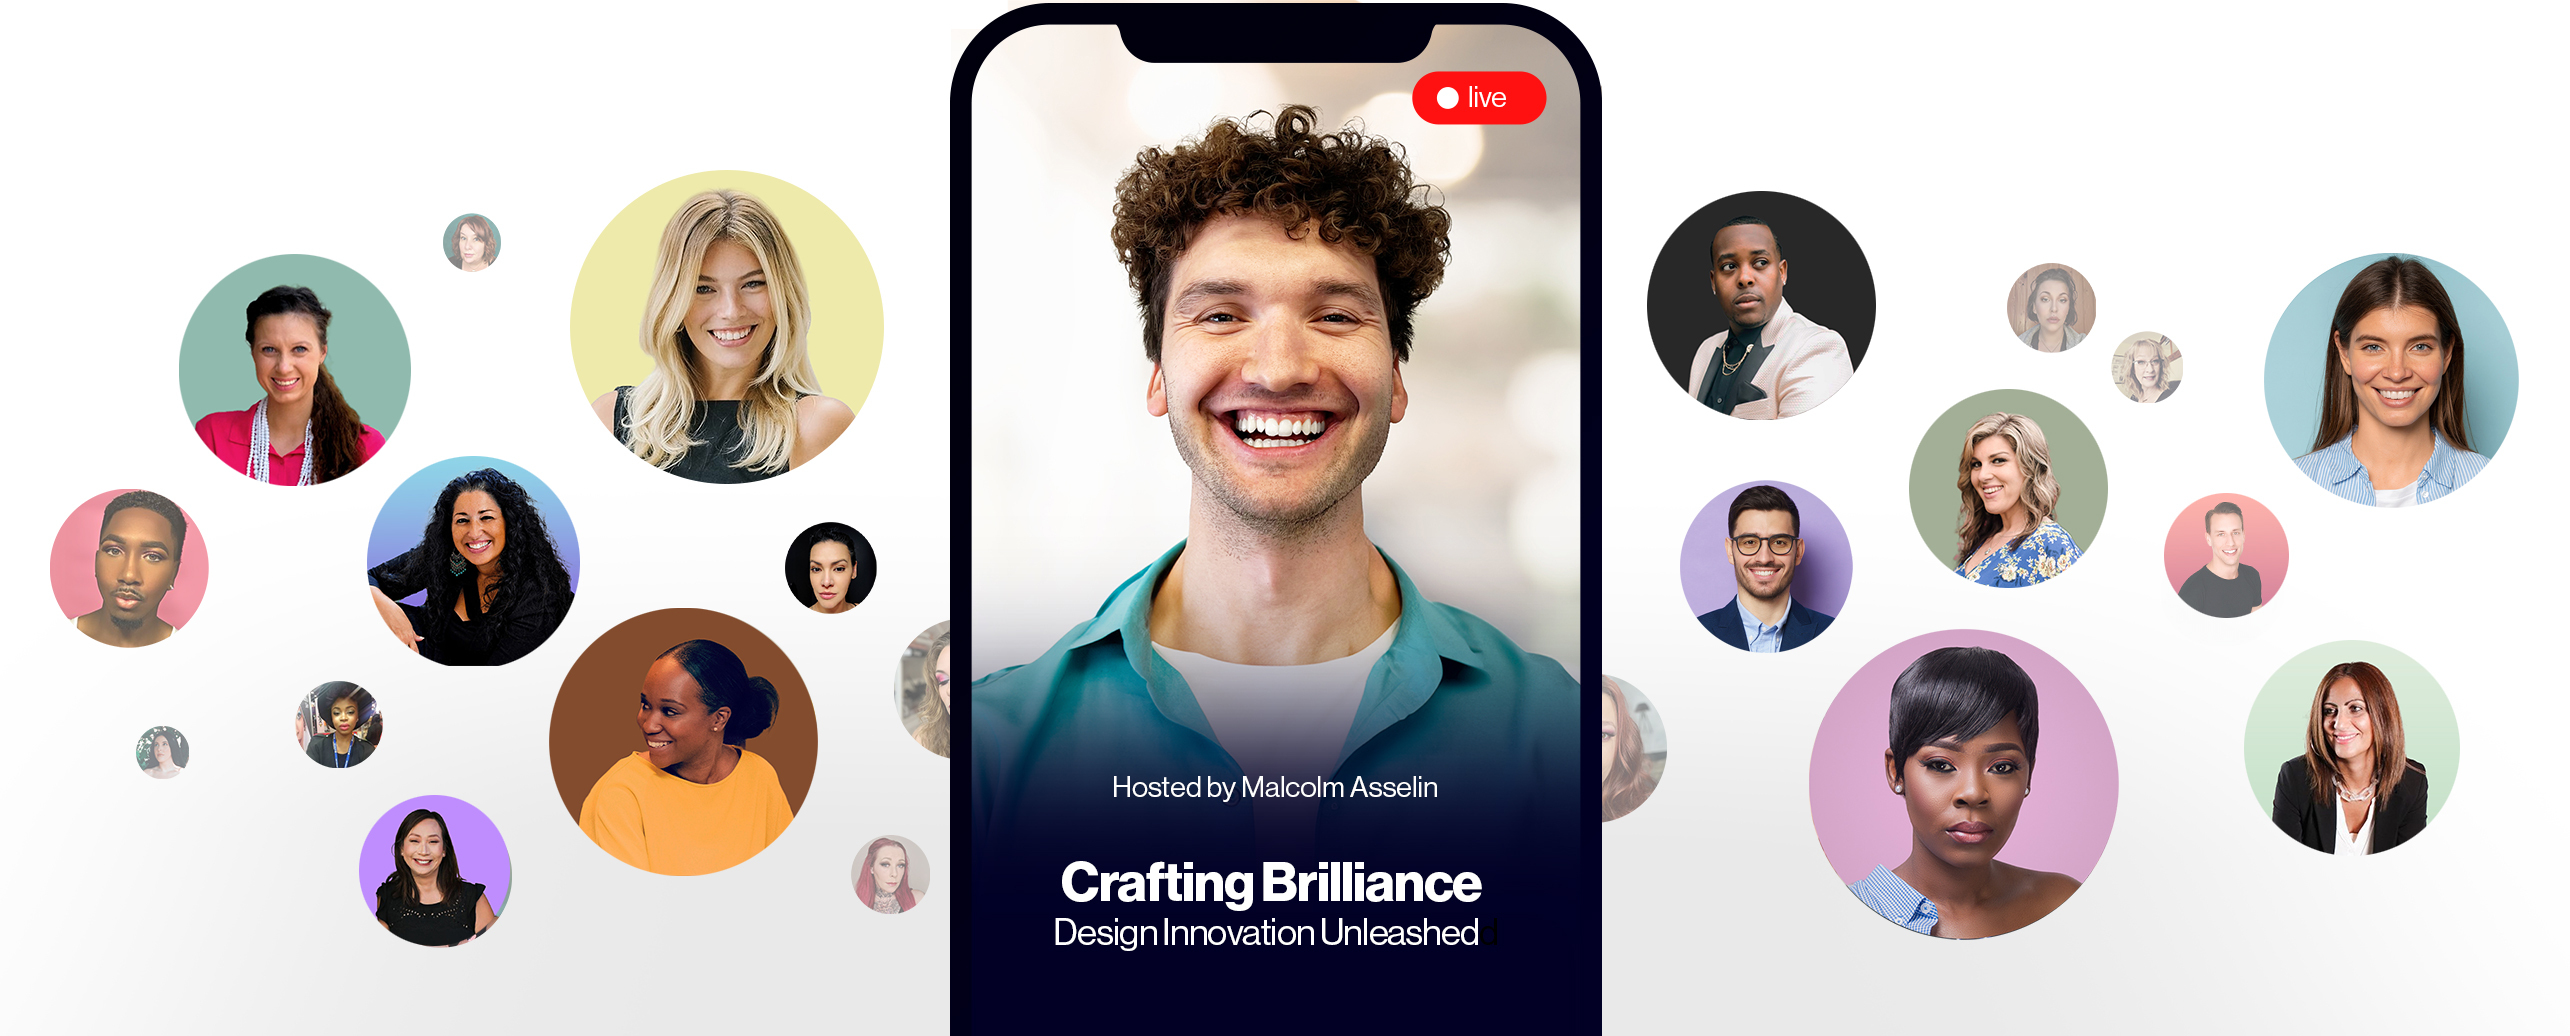
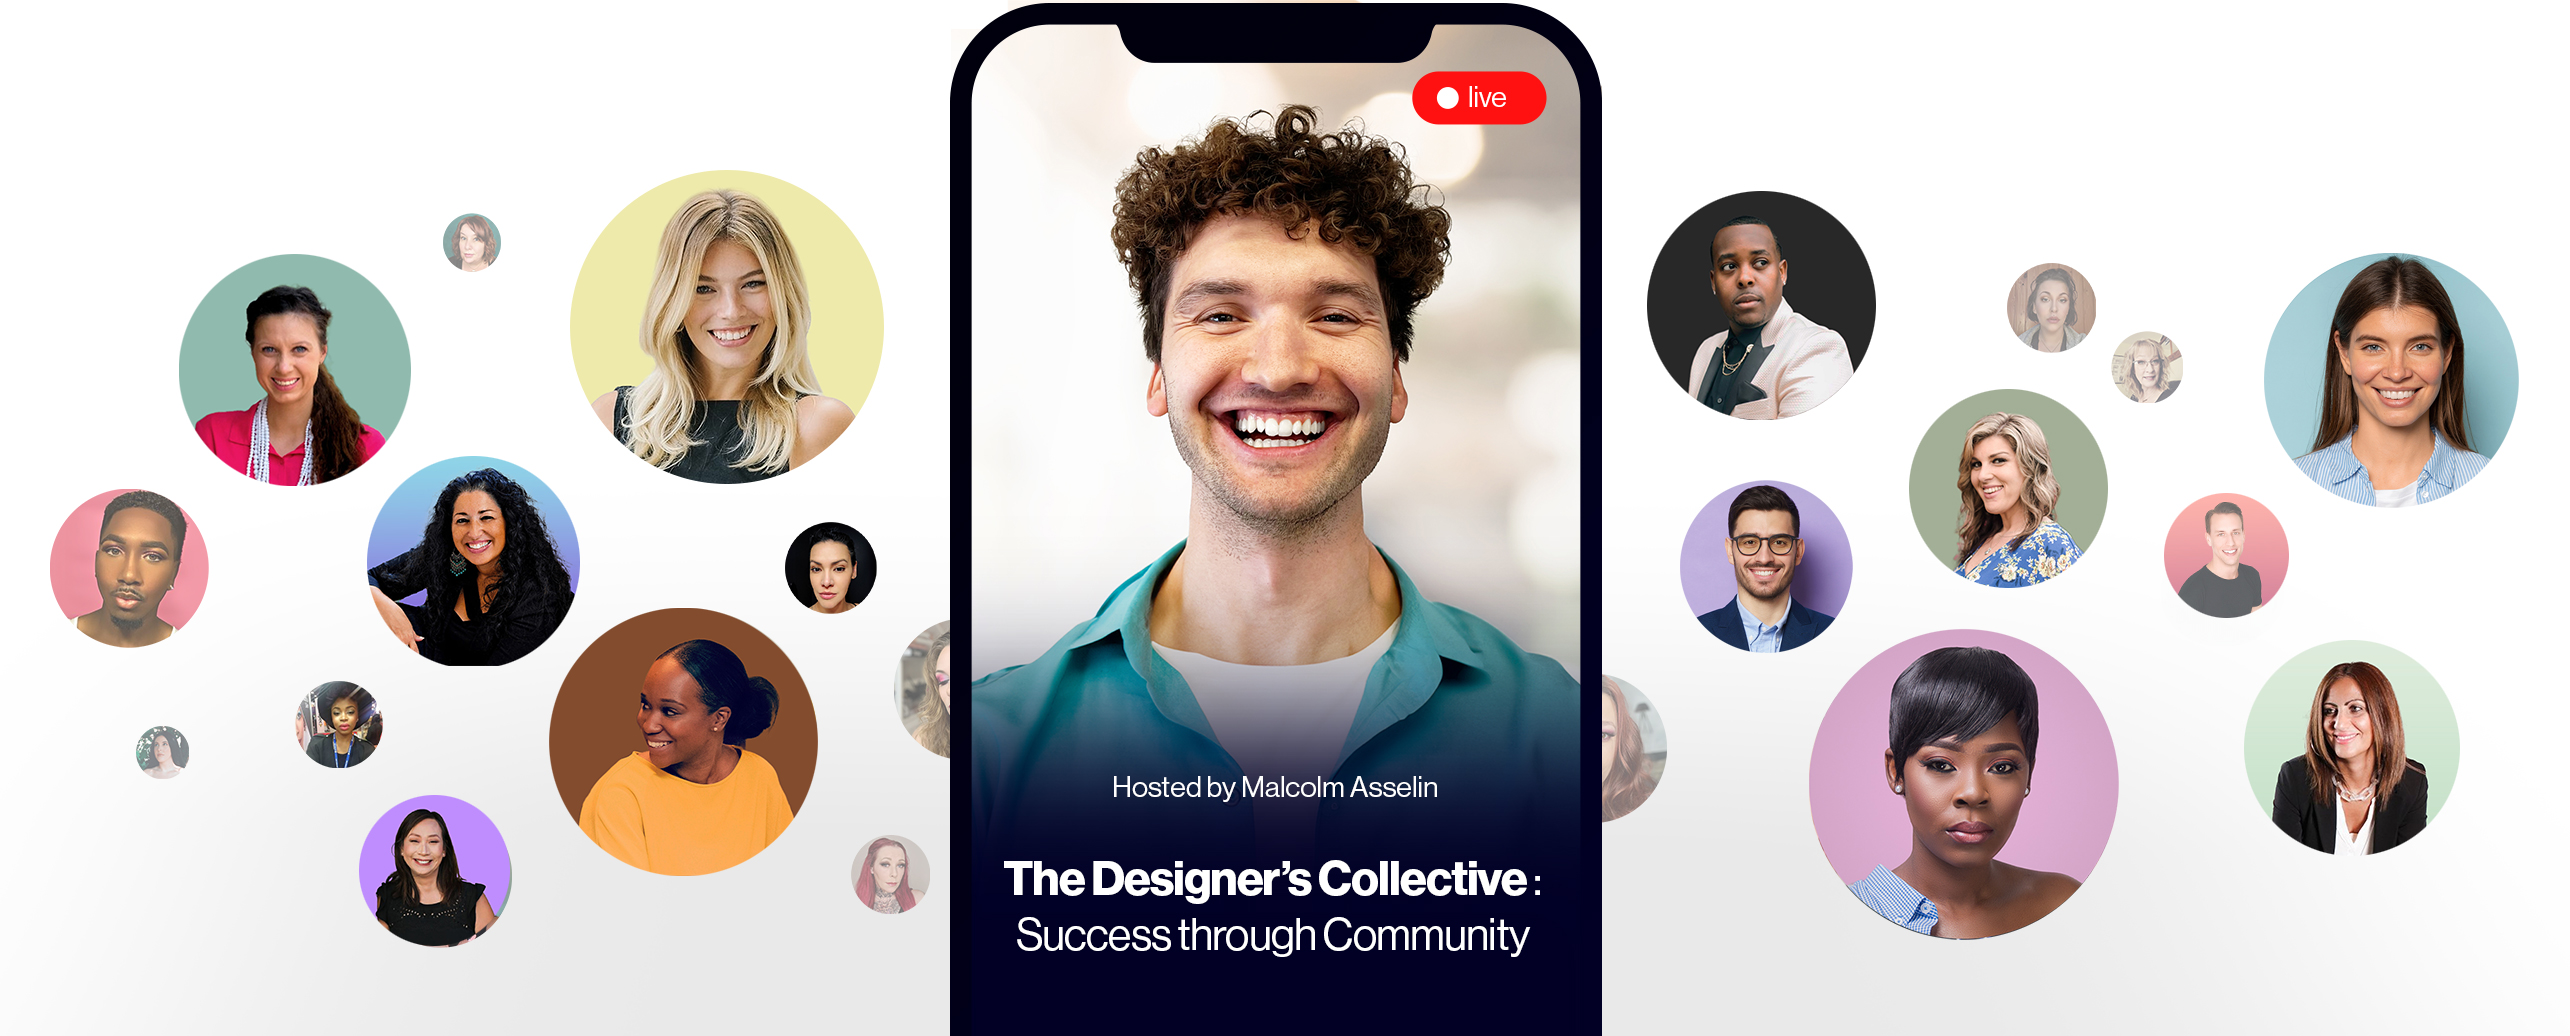
Updated VC image and text

Changed region(s): [[0.3735, 0.834, 0.5914, 0.9266]]

diff --git a/src/components/virtualCommunitySection/index.tsx b/src/components/virtualCommunitySection/index.tsx
@@ -10,8 +10,8 @@ export const VirtualCommunitySection: FC = () => (
       <div className="row justify-content-center">
         <div className="col-12 col-lg-10">
           <h2 className="mb-3">Access an Exclusive Virtual Community Where Creativity Thrives</h2>
-          <p className="mb-0">We're here to inspire, inform, and innovate your educational journey. Discover the vibrant heart of our Virtual Community, where students and graduates connect to mentor, share insights, and grow together. Tap into free webinars for deep dives into design and industry secrets, and join lively chats for discussions that range from studies to career paths.</p>
-          <p className="text-black">Join us in shaping the future of design innovation.</p>
+          <p className="mb-0">Be a member of QC's supportive Virtual Community where students and graduates can connect with mentors, share insights and grow together. Tap into free webinars where top design professionals share industry secrets, and take part in lively discussions covering everything from your latest assignment to your next career move. We're here to inspire and enhance your educational journey.</p>
+          <p className="text-black">Join us in shaping the future of the design industry.</p>
         </div>
       </div>
       <div className="d-none d-sm-block"><Image src={DesktopImage} alt="" style={{ width: '100%', height: 'auto' }} /></div>

diff --git a/src/components/paymentPlanSection/full.tsx b/src/components/paymentPlanSection/full.tsx
@@ -19,7 +19,7 @@ type Props = {
 export const Full: FC<Props> = ({ price, href }) => (
   <div className={`${styles.full} card`}>
     <div className="card-body">
-      <h6 className={commonStyles.title}>Pay In Full</h6>
+      <h6 className={commonStyles.title}>Pay in Full</h6>
       <div className={commonStyles.description}>One-Time Payment of</div>
       <hr className={commonStyles.hr} />
       <div className={commonStyles.price}><span className={commonStyles.priceSmall}>{price.currency.symbol}{tightNumber(price.plans.full.total) && <span style={{ marginRight: '0.25rem' }} />}</span><span className={styles.dark}>{price.plans.full.total}</span></div>

diff --git a/src/components/careerEssentialsKitSection/index.module.scss b/src/components/careerEssentialsKitSection/index.module.scss
@@ -1,6 +1,6 @@
 .section {
   background-color: #d881ab;
-  background: linear-gradient(90deg, #d782ab, #d881ab, #d984ad);
+  background: linear-gradient(to right, #d782ab, #d881ab 25% 75%, #da85ae);
   @media screen and (max-width: 991.9px) {
     padding-bottom: 0;
   }
